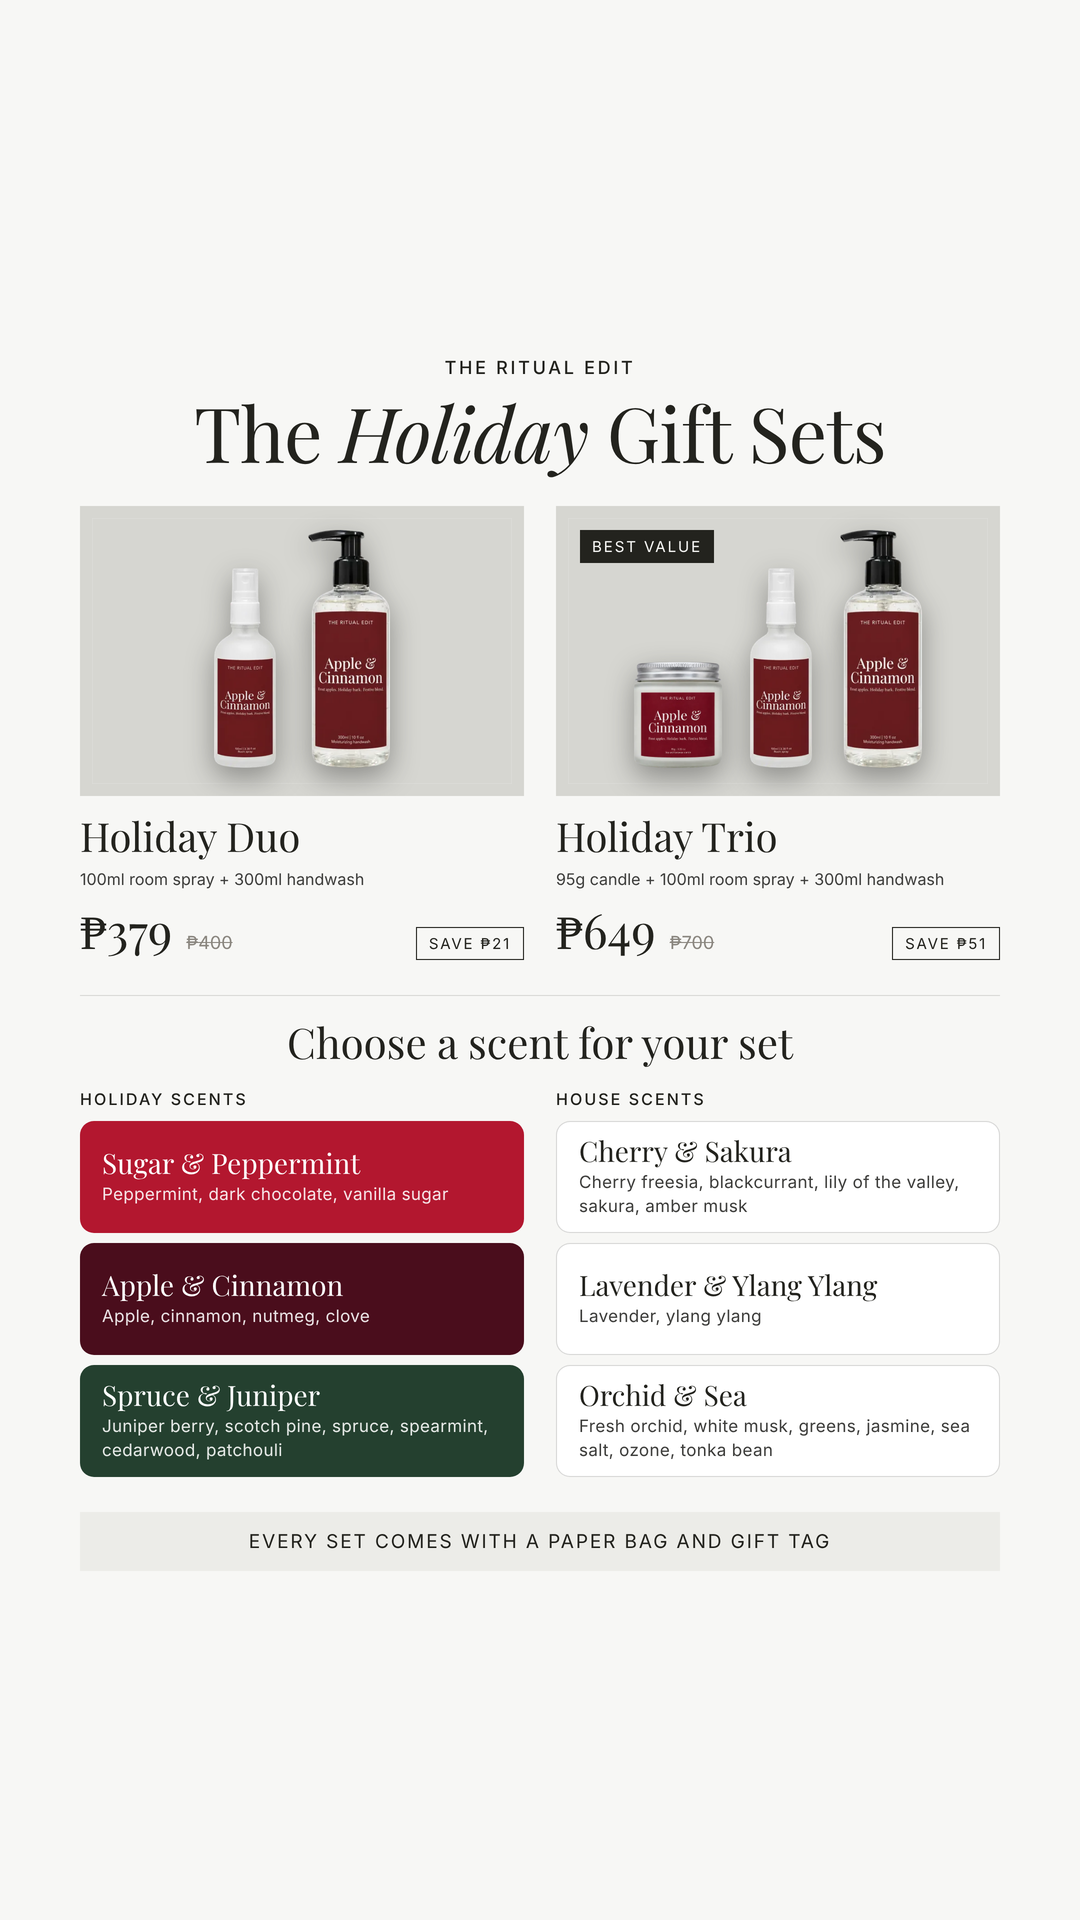
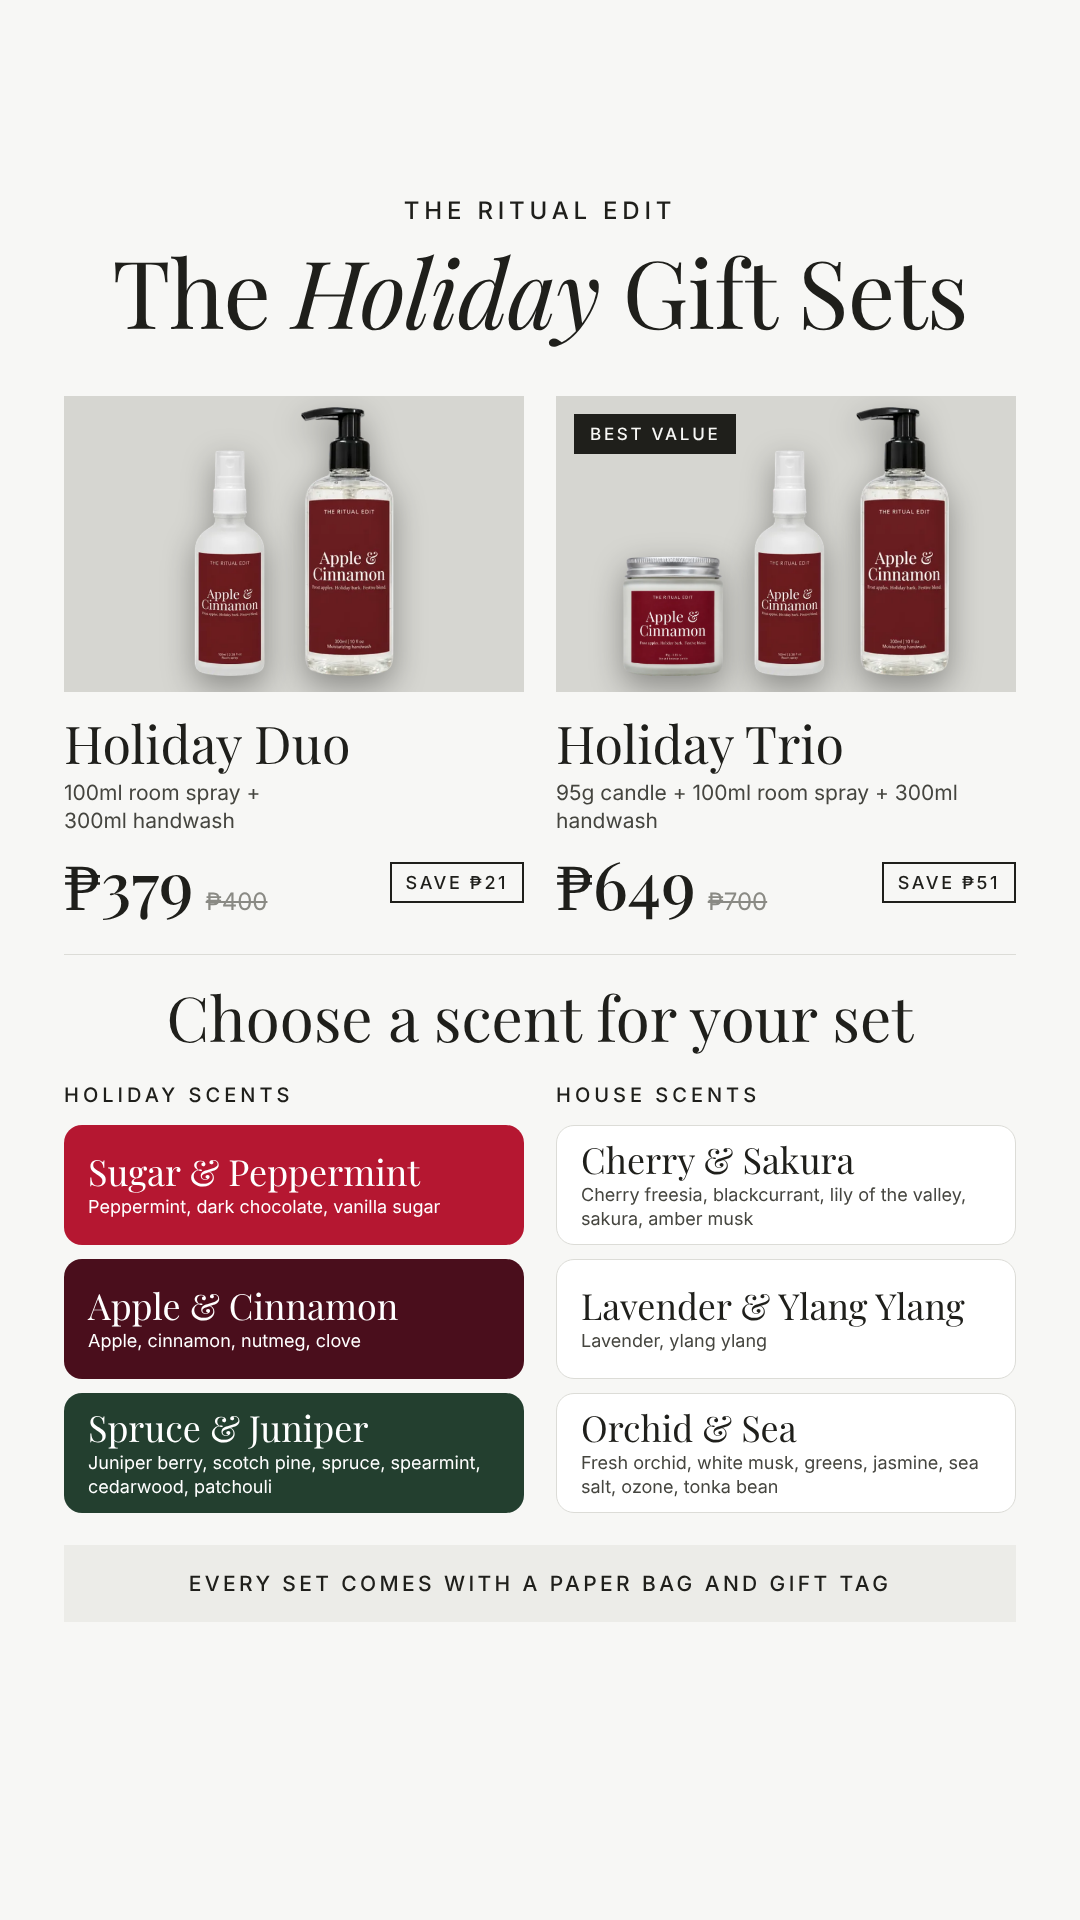
Recreate holiday gift sets story at 1080x1920 with story spacing
Claude-Session: https://claude.ai/code/session_015n4xRyZK8SdzYjdRXZwVVV

diff --git a/instagram/source/story.html b/instagram/source/story.html
@@ -1,0 +1,74 @@
+<!doctype html>
+<html><head><meta charset="utf-8">
+<link href="https://fonts.googleapis.com/css2?family=Playfair+Display:ital,wght@0,400;0,500;1,400;1,500&family=Inter:wght@400;500&display=block" rel="stylesheet">
+<style>
+*{box-sizing:border-box;margin:0;padding:0}
+html,body{width:1080px;height:1920px;background:#f7f7f5;color:#1f1f1b;font-family:Inter,sans-serif}
+.page{width:1080px;height:1920px;padding:196px 64px 0;display:flex;flex-direction:column}
+.serif{font-family:'Playfair Display',serif;font-weight:400}
+.eyebrow{font-size:24px;letter-spacing:.2em;text-transform:uppercase;font-weight:500}
+header{text-align:center}
+h1{font-size:94px;line-height:1.05;margin-top:16px;white-space:nowrap;letter-spacing:-.01em}
+h1 em{font-style:italic}
+.products{display:grid;grid-template-columns:1fr 1fr;gap:32px;margin-top:56px}
+.photo{position:relative;height:296px;background:#d6d6d1 center/cover no-repeat}
+.badge{position:absolute;top:18px;left:18px;background:#1f1f1b;color:#f7f7f5;font-size:17px;letter-spacing:.16em;padding:10px 16px;font-weight:500}
+h2{font-size:52px;line-height:1.1;margin-top:22px}
+.desc{font-size:21px;color:#45453f;margin-top:8px;line-height:1.35;min-height:57px}
+.row{display:flex;align-items:center;justify-content:space-between;margin-top:14px}.price{display:flex;align-items:baseline;gap:12px}
+.price b{font-family:'Playfair Display',serif;font-weight:500;font-size:66px;line-height:1}
+.price s{font-size:24px;color:#8a8a84}
+.save{display:inline-block;border:2px solid #1f1f1b;font-size:18px;letter-spacing:.14em;padding:8px 14px;font-weight:500}
+hr{border:0;border-top:1.5px solid #dcdcd7;margin:38px 0 0}
+.choose{text-align:center;font-size:62px;margin-top:28px;line-height:1.1}
+.scents{display:grid;grid-template-columns:1fr 1fr;column-gap:32px;margin-top:32px}
+.col{display:flex;flex-direction:column;gap:14px}
+.col .eyebrow{font-size:20px;margin-bottom:4px}
+.card{border-radius:18px;padding:16px 24px;height:120px;display:flex;flex-direction:column;justify-content:center}
+.card h3{font-family:'Playfair Display',serif;font-weight:400;font-size:36px;line-height:1.1}
+.card p{font-size:18px;line-height:1.3;margin-top:4px}
+.red{background:#b51731;color:#fff}.wine{background:#4a0e1c;color:#fff}.green{background:#233f2f;color:#fff}
+.light{background:#fff;border:1.5px solid #dcdcd7}.light p{color:#45453f}
+footer{margin-top:32px;background:#ececE8;text-align:center;padding:26px 0;font-size:21px;letter-spacing:.16em;font-weight:500}
+</style></head>
+<body><div class="page">
+<header>
+  <div class="eyebrow">The Ritual Edit</div>
+  <h1 class="serif">The <em>Holiday</em> Gift Sets</h1>
+</header>
+<section class="products">
+  <div>
+    <div class="photo" style="background-image:url(duo.png)"></div>
+    <h2 class="serif">Holiday Duo</h2>
+    <p class="desc">100ml room spray +<br>300ml handwash</p>
+    <div class="row"><div class="price"><b>₱379</b><s>₱400</s></div>
+    <span class="save">SAVE ₱21</span>
+    </div>
+  </div>
+  <div>
+    <div class="photo" style="background-image:url(trio.png)"><span class="badge">BEST VALUE</span></div>
+    <h2 class="serif">Holiday Trio</h2>
+    <p class="desc">95g candle + 100ml room spray + 300ml handwash</p>
+    <div class="row"><div class="price"><b>₱649</b><s>₱700</s></div>
+    <span class="save">SAVE ₱51</span>
+    </div>
+  </div>
+</section>
+<hr>
+<h2 class="choose serif">Choose a scent for your set</h2>
+<section class="scents">
+  <div class="col">
+    <div class="eyebrow">Holiday Scents</div>
+    <div class="card red"><h3>Sugar &amp; Peppermint</h3><p>Peppermint, dark chocolate, vanilla sugar</p></div>
+    <div class="card wine"><h3>Apple &amp; Cinnamon</h3><p>Apple, cinnamon, nutmeg, clove</p></div>
+    <div class="card green"><h3>Spruce &amp; Juniper</h3><p>Juniper berry, scotch pine, spruce, spearmint, cedarwood, patchouli</p></div>
+  </div>
+  <div class="col">
+    <div class="eyebrow">House Scents</div>
+    <div class="card light"><h3>Cherry &amp; Sakura</h3><p>Cherry freesia, blackcurrant, lily of the valley, sakura, amber musk</p></div>
+    <div class="card light"><h3>Lavender &amp; Ylang Ylang</h3><p>Lavender, ylang ylang</p></div>
+    <div class="card light"><h3>Orchid &amp; Sea</h3><p>Fresh orchid, white musk, greens, jasmine, sea salt, ozone, tonka bean</p></div>
+  </div>
+</section>
+<footer>EVERY SET COMES WITH A PAPER BAG AND GIFT TAG</footer>
+</div></body></html>
